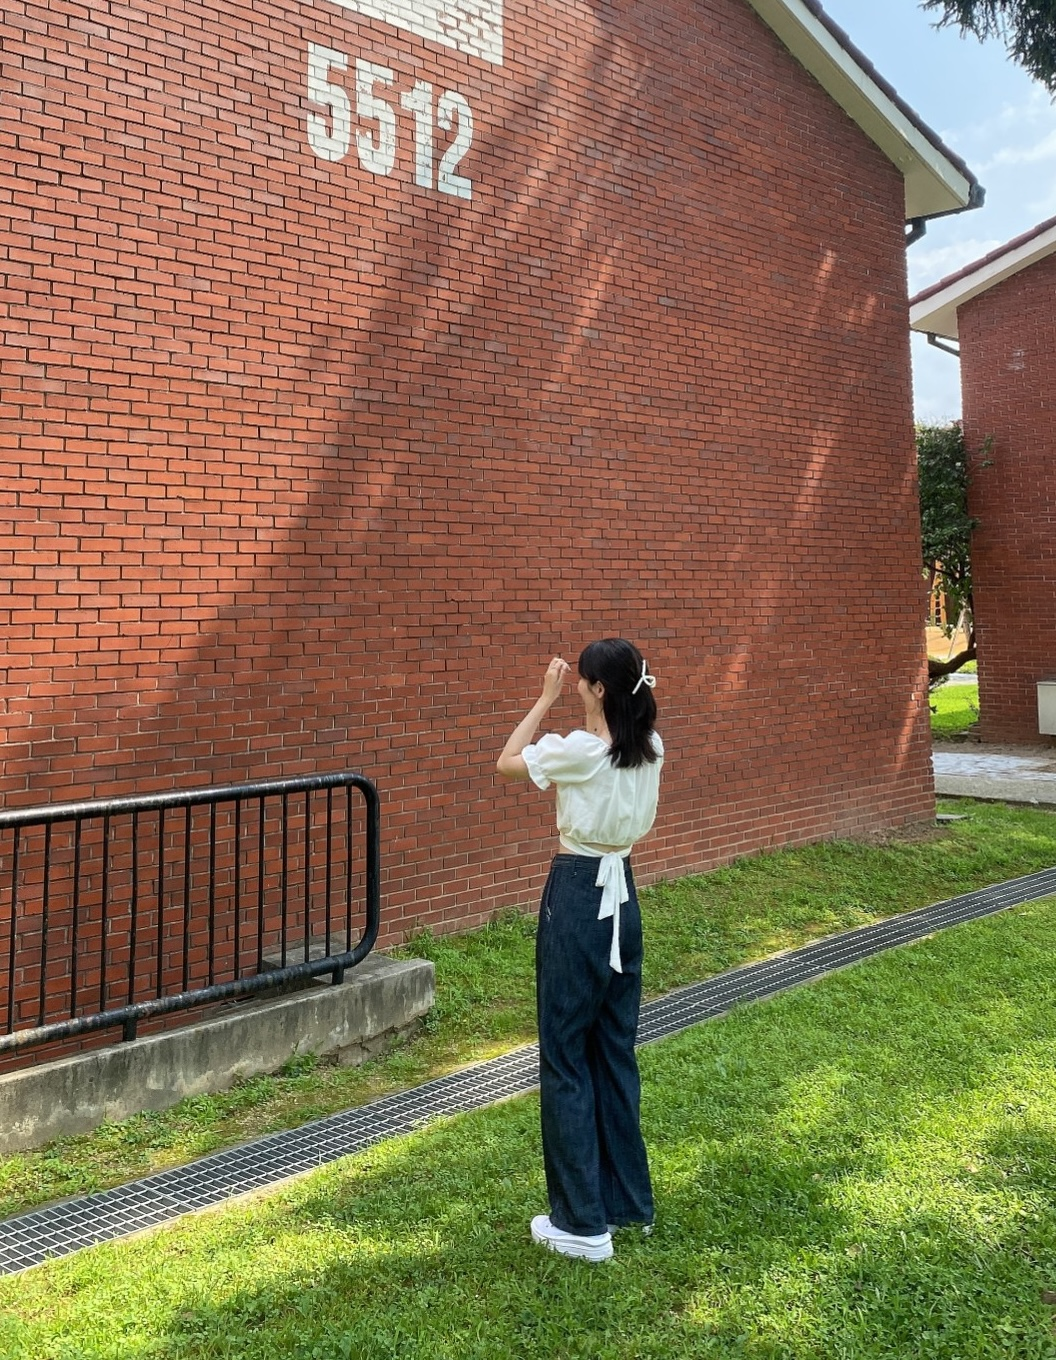
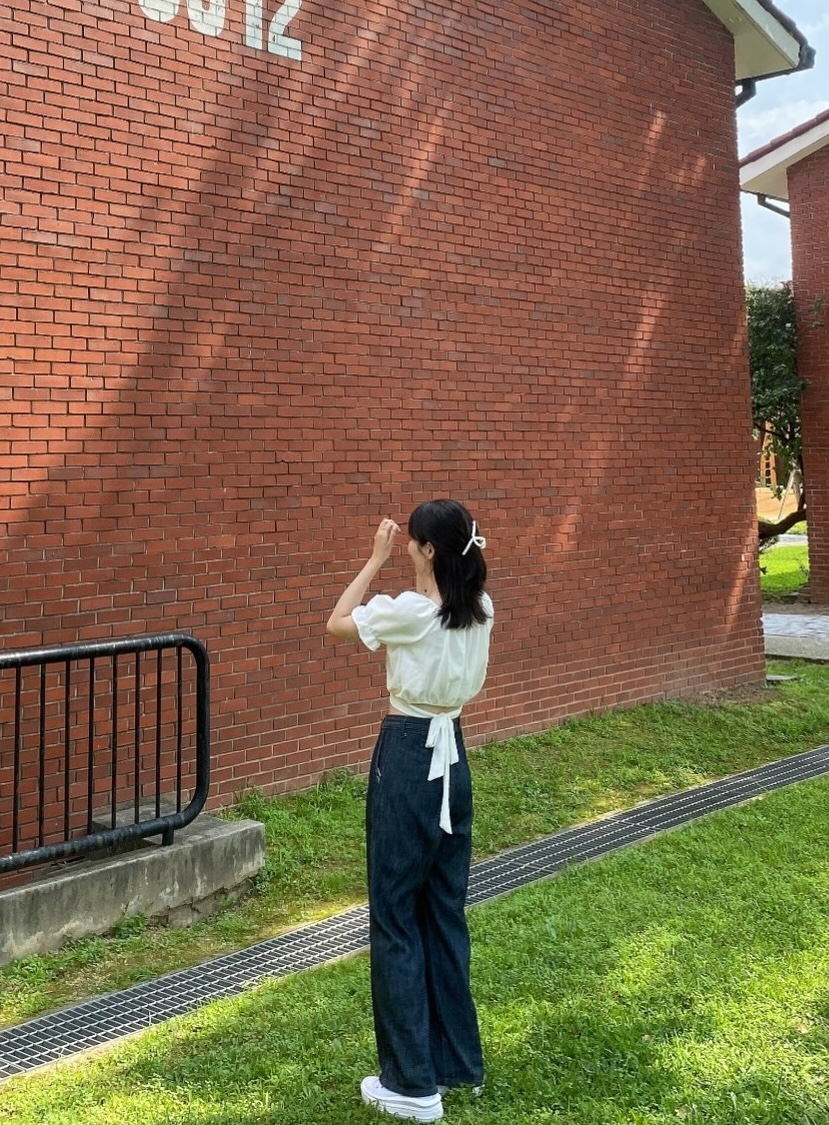
fix: 글 01 이모지 수정, thumbnail 사진 수정

diff --git a/content/01-programmers-retrospect1/index.md b/content/01-programmers-retrospect1/index.md
@@ -1,5 +1,5 @@
 ---
-emoji: https://noticon-static.tammolo.com/dgggcrkxq/image/upload/v1621451894/noticon/wbx6sz7ouccpnmbmvf3k.png
+emoji: 📄
 title: '[프로그래머스 데브코스 5기] 1달 회고 (1)'
 date: '2023-10-23'
 author: 김윤경
